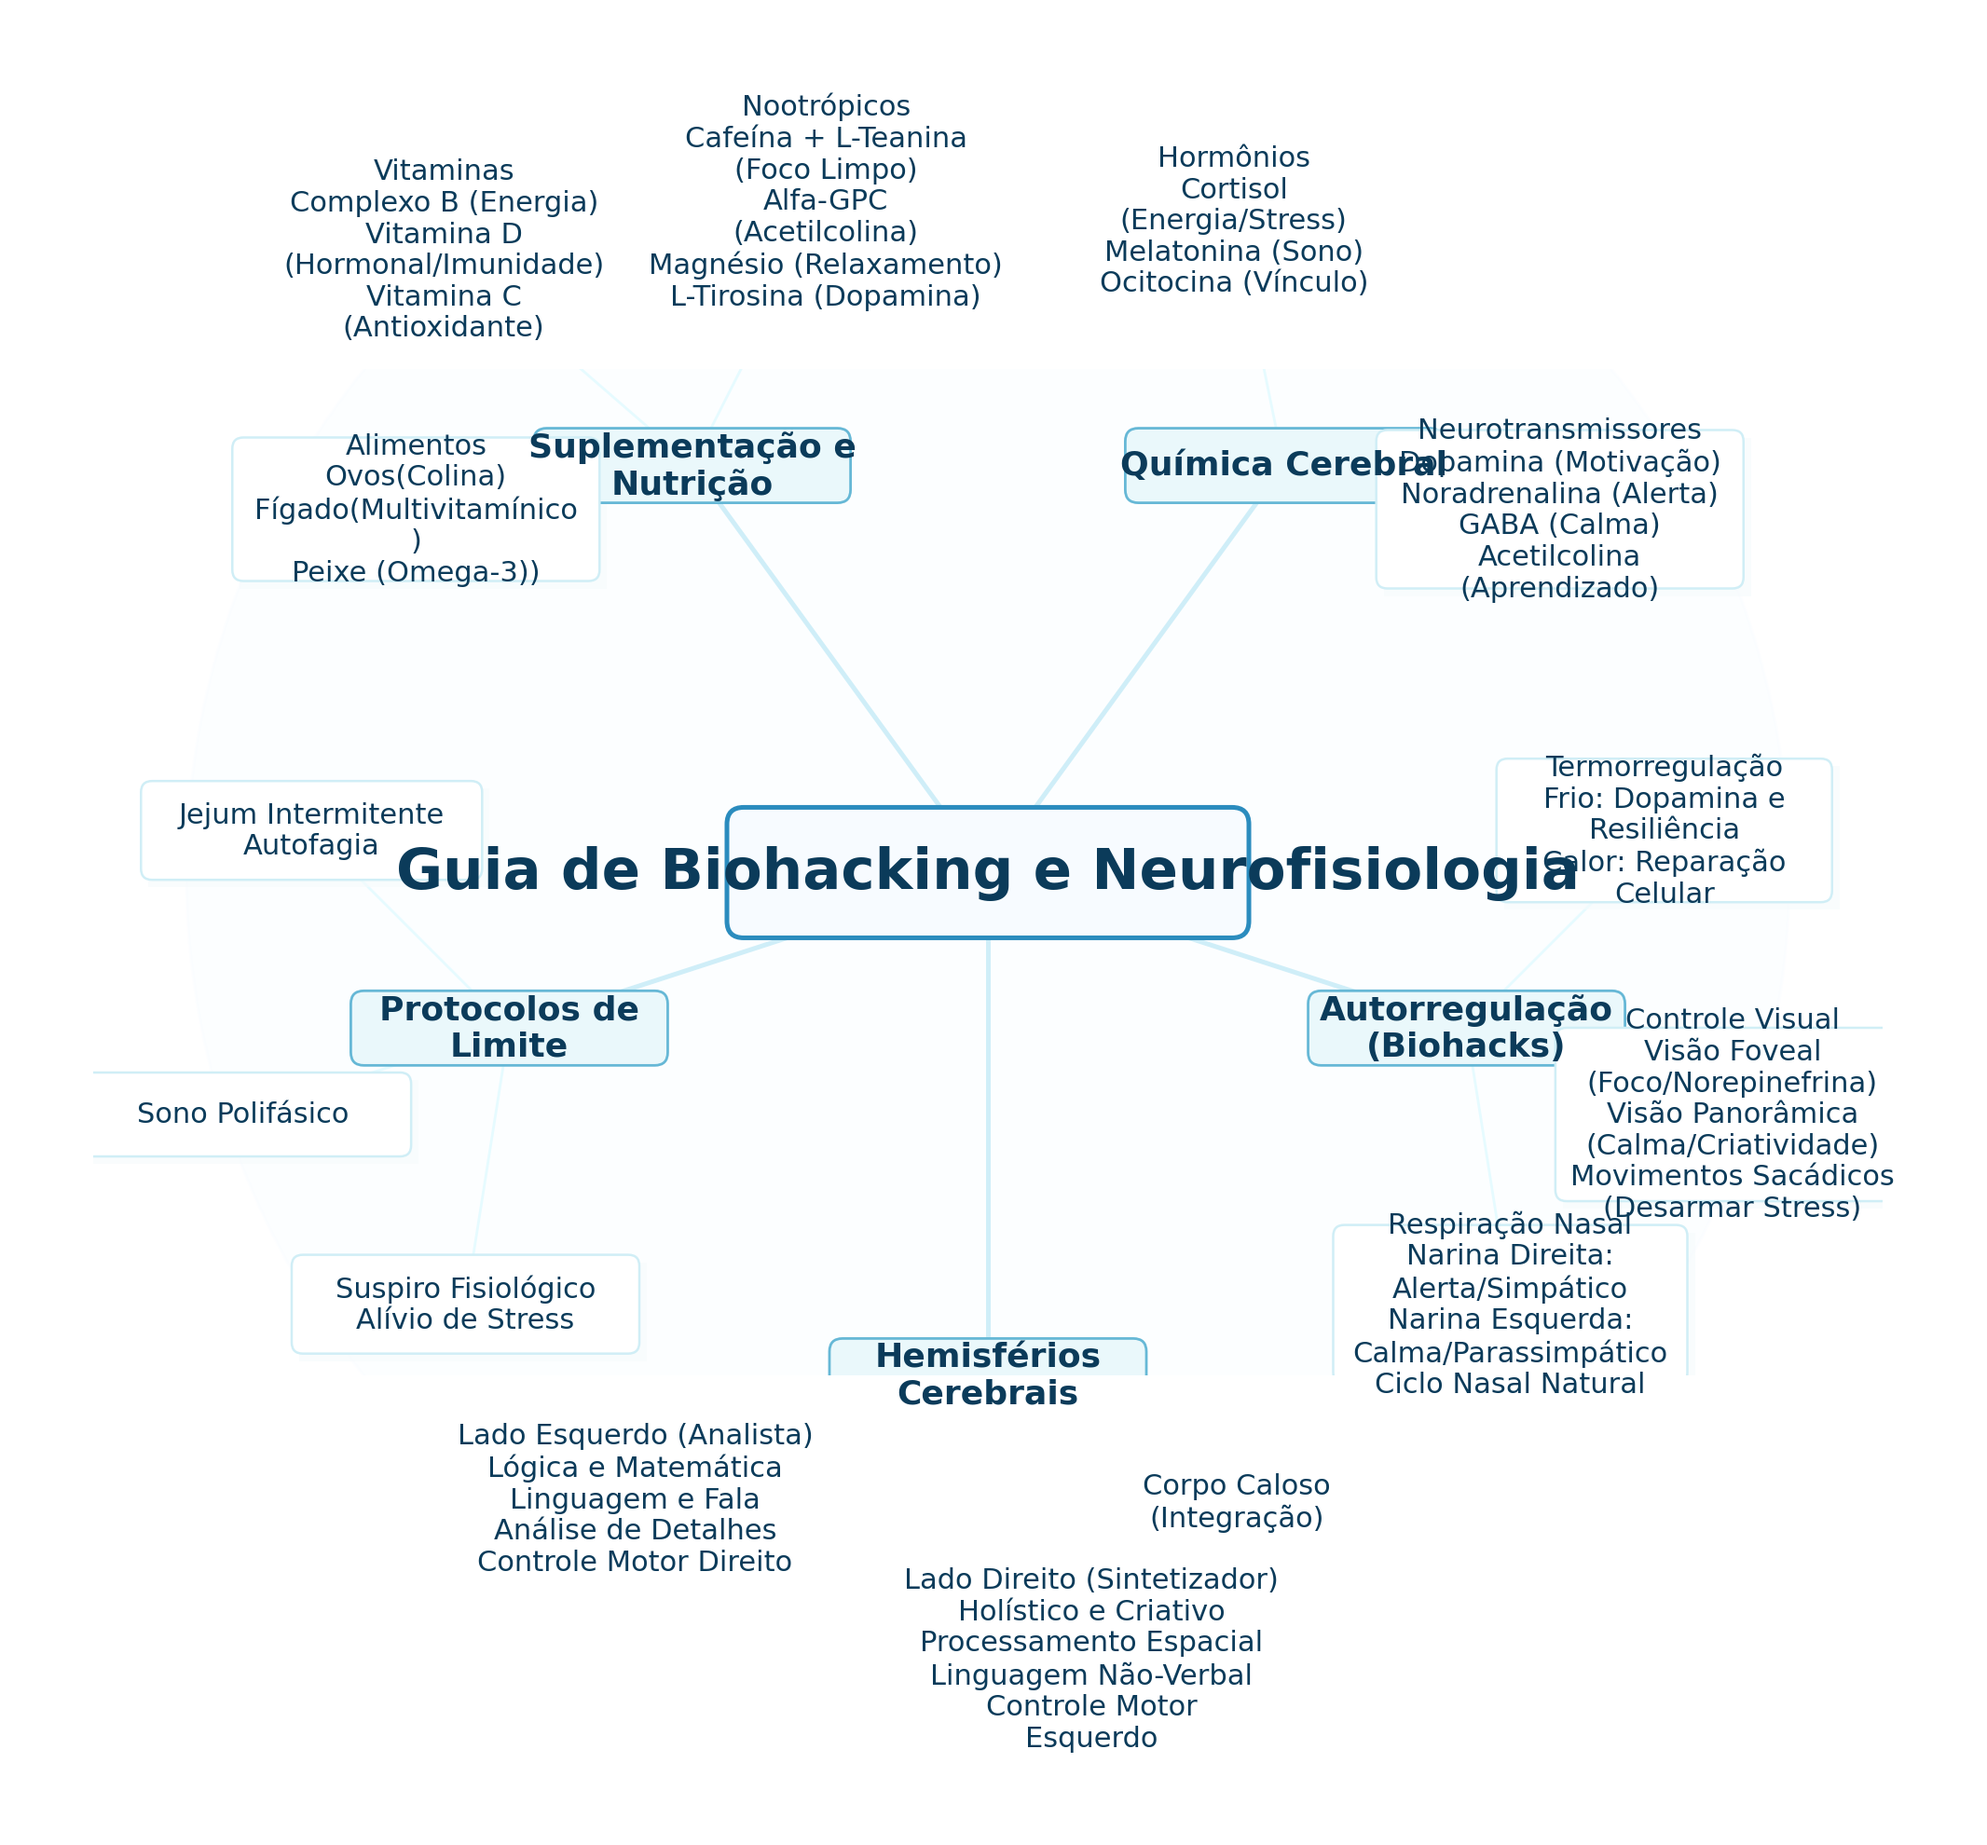
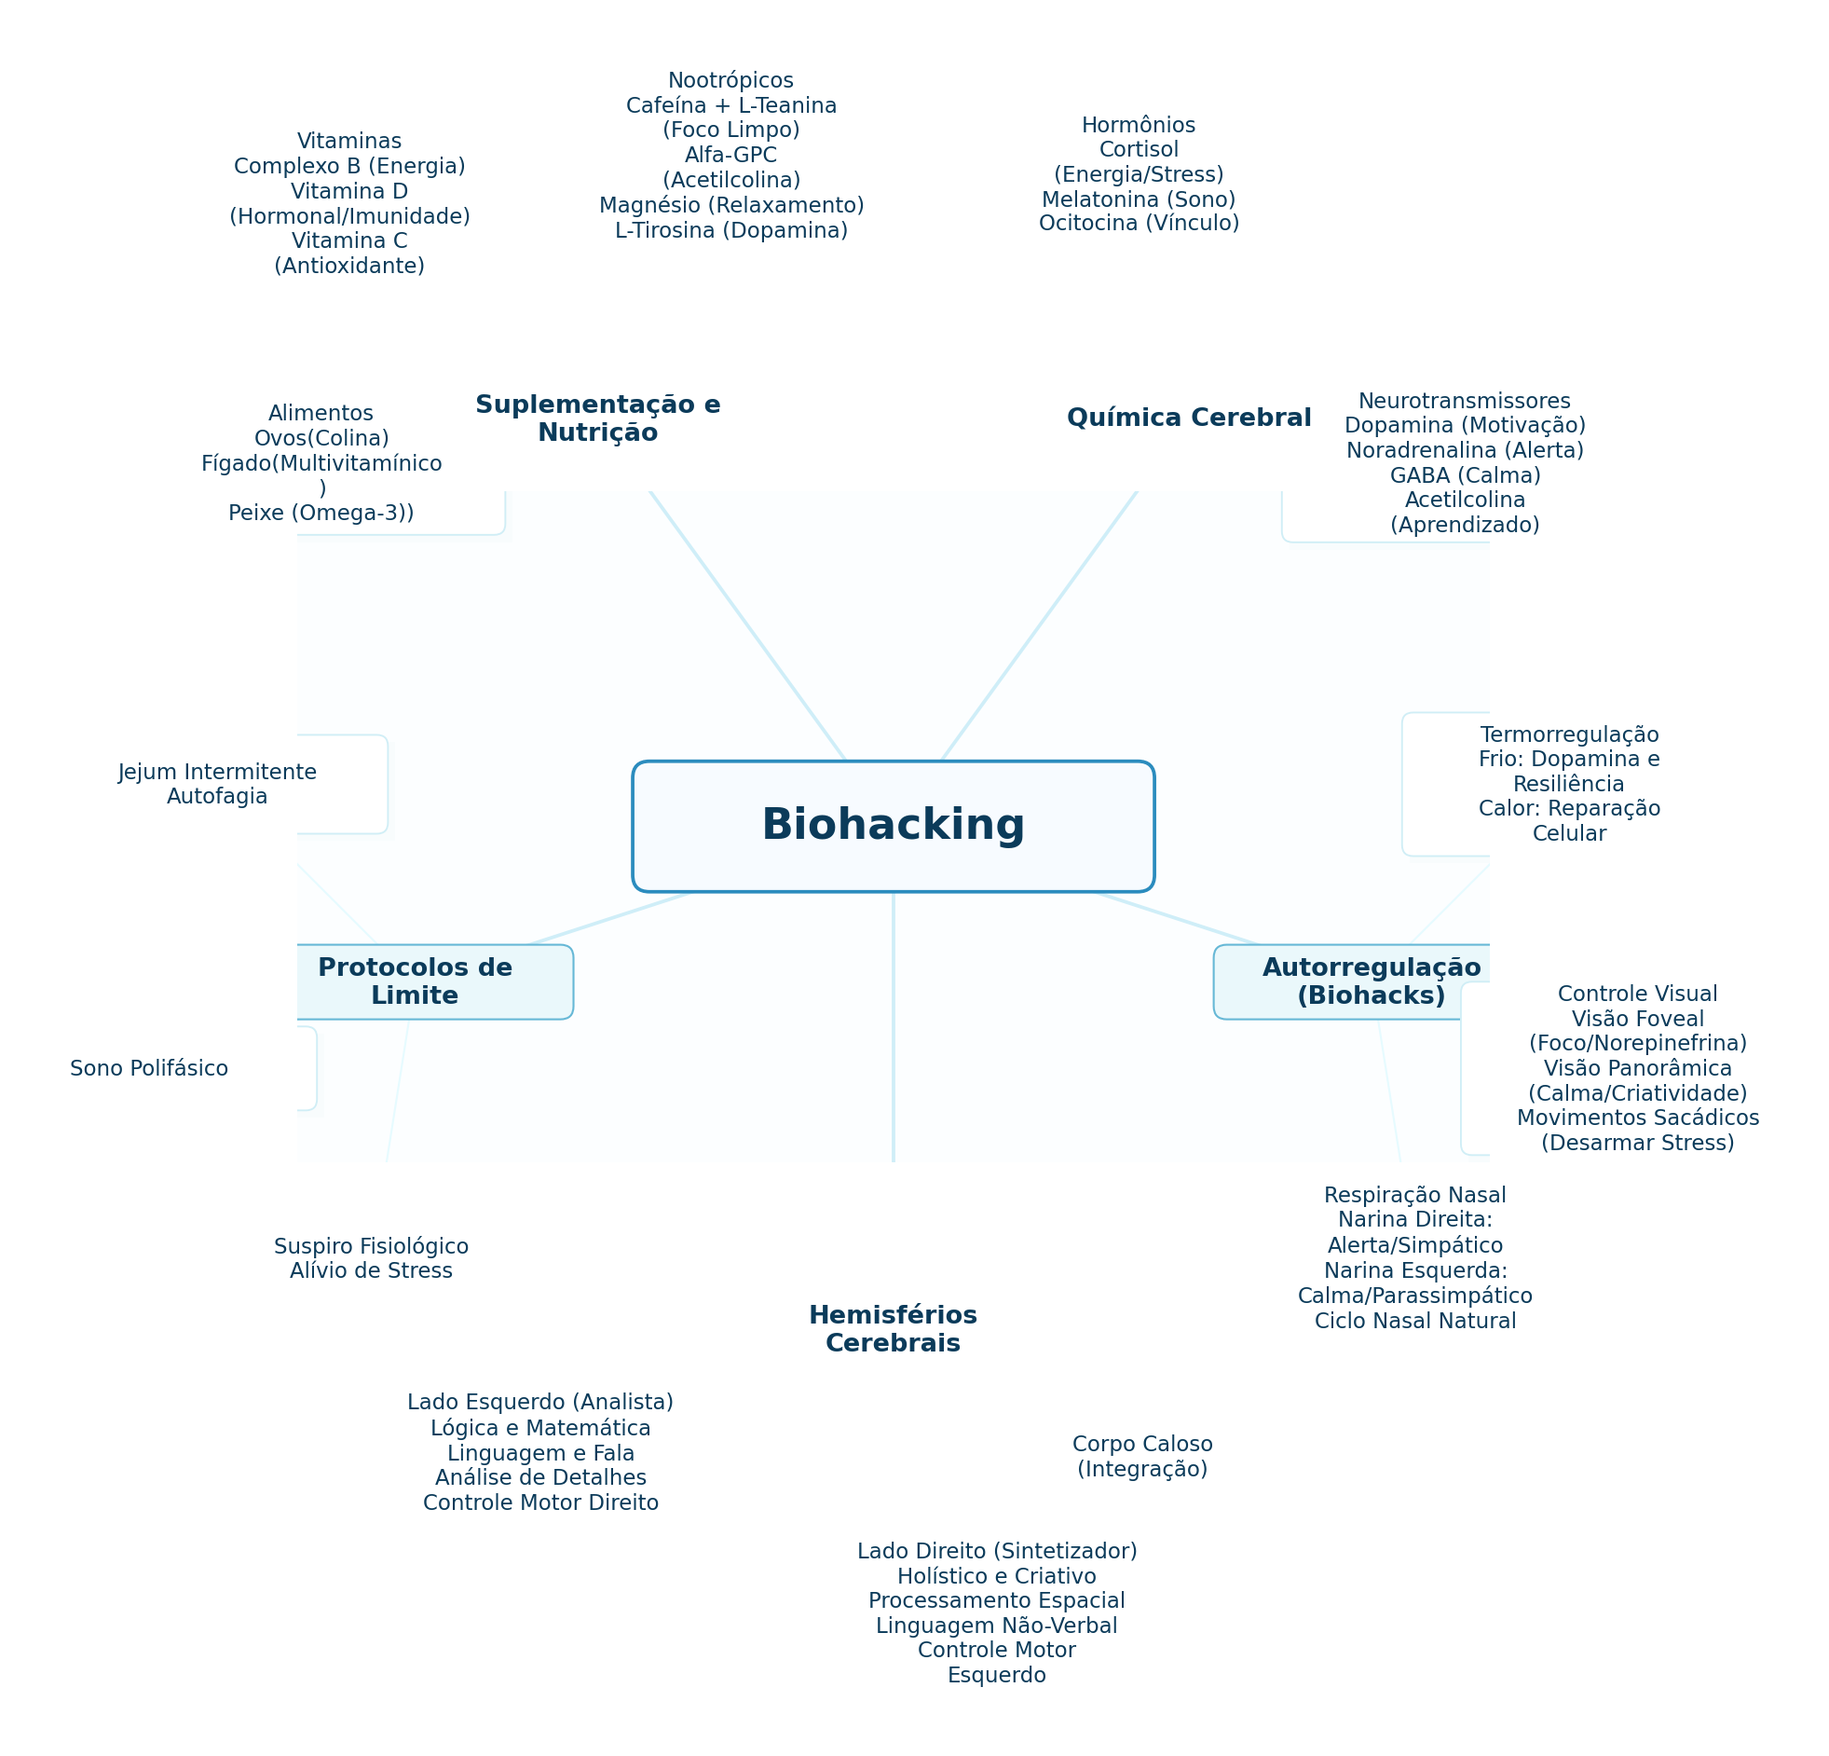
mindmap

diff --git a/generate_mindmap.py b/generate_mindmap.py
@@ -7,11 +7,11 @@ from matplotlib.patches import FancyBboxPatch, Rectangle
 import numpy as np
 
 OUT_PNG = Path("mindmap.png")
-W, H = 1920, 1080
-DPI = 200
+W, H = 1280, 720
+DPI = 150
 FONT_FAMILY = "DejaVu Sans"
 
-center = "Guia de Biohacking e Neurofisiologia"
+center = "Biohacking"
 branches = {
     "Hemisférios Cerebrais": [
         ("Lado Esquerdo (Analista)", "Lógica e Matemática; Linguagem e Fala; Análise de Detalhes; Controle Motor Direito"),
